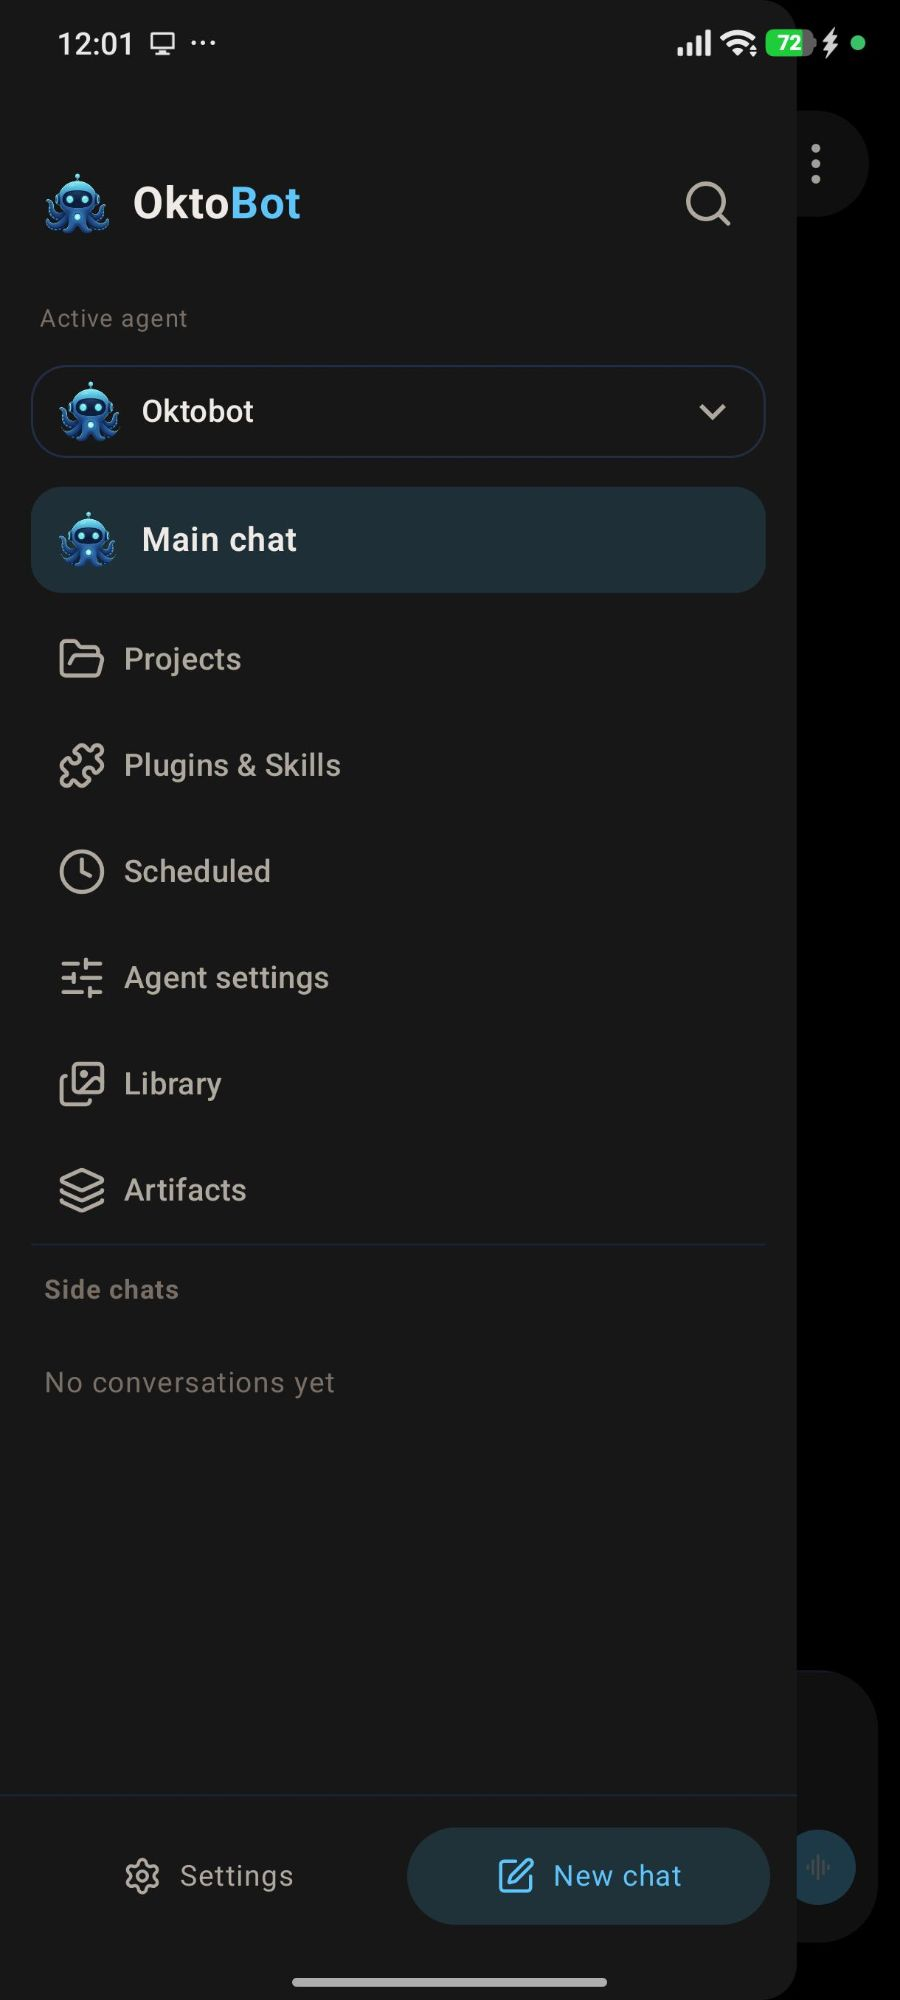
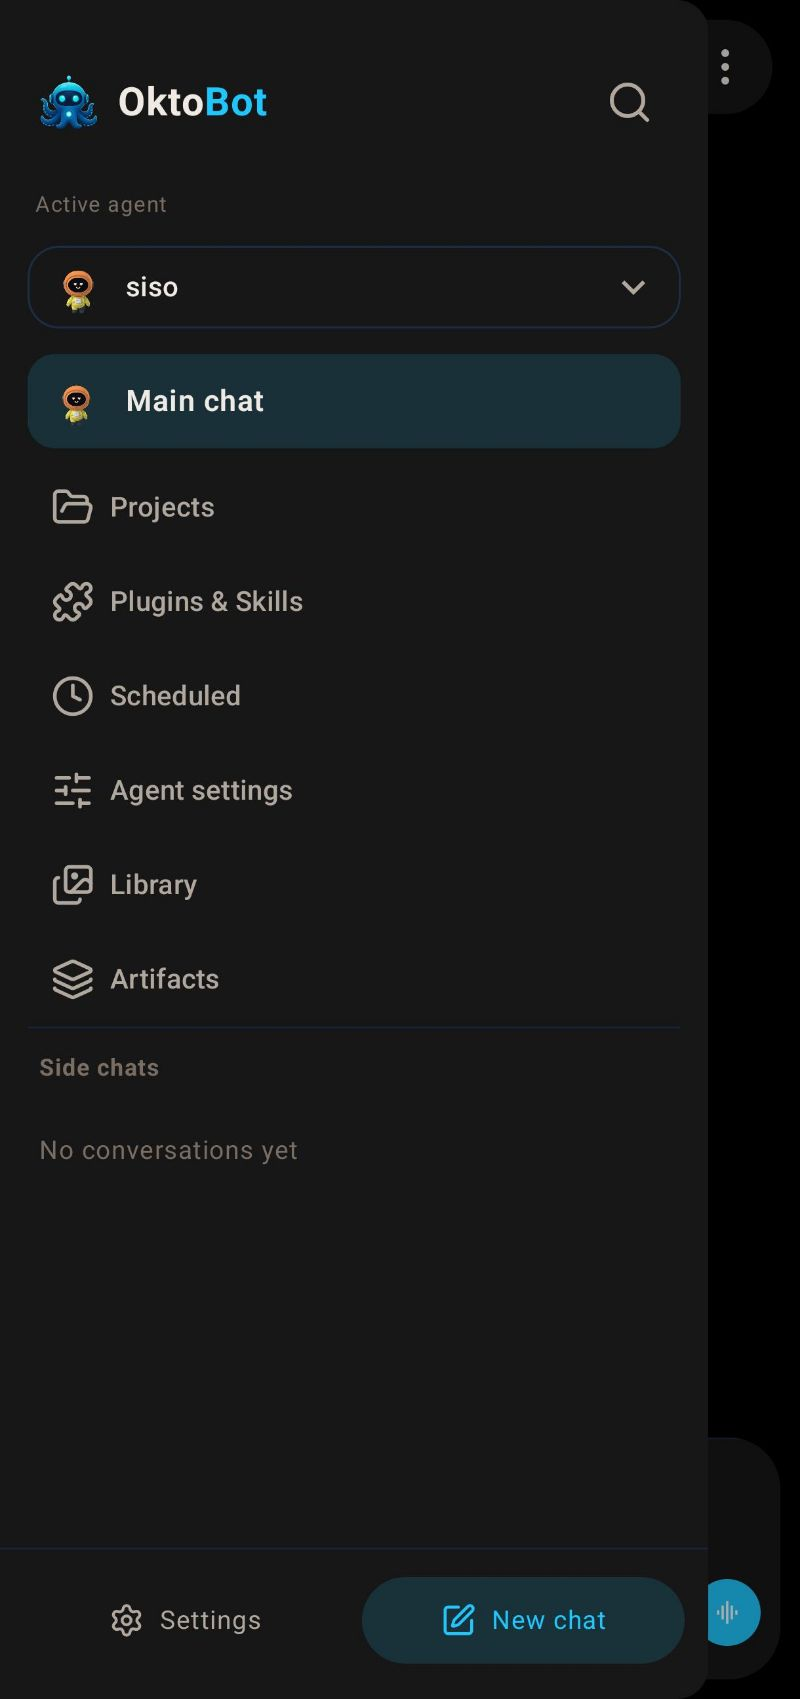
Play review walkthrough: OpenRouter free model flow

diff --git a/play-review/README.md b/play-review/README.md
@@ -1,17 +1,17 @@
-# Oktobot – how to test the AI features (for Google Play review)
+# Oktobot – how to test the AI features (Google Play review)
 
-No account or login is needed. To chat you need a model. Use the test Gemini API key given in the Play Console "Sign in details".
+No account or login is needed. Oktobot needs one AI model to chat. Use the free OpenRouter test key given in the Play Console "Sign in details". It is a free-tier key with no credit, so it cannot incur charges.
+
+IMPORTANT: choose the model `openrouter/free` (it always works). Do not pick other models.
 
 1. Open the menu (top-left) – ![](01-open-menu.jpg)
 2. Settings – ![](02-settings.jpg)
-3. Model – ![](03-model.jpg)
-4. LLM Config > Add provider – ![](04-llm-config-add-provider.jpg)
-5. Choose Gemini – ![](05-choose-gemini.jpg)
-6. Paste the API key – ![](06-paste-key.jpg)
-7. Test connection (shows "Connection successful"), then Save – ![](07-test-connection.jpg)
-8. Gemini shows Connected – ![](08-gemini-connected.jpg)
-9. IMPORTANT: choose the model `gemini-flash-lite-latest` (search "flash-lite") – ![](09-search-flash-lite.jpg)
-10. Selected – ![](10-select-flash-lite-latest.jpg)
-11. Go back to the chat and send a message – ![](11-chat-works.jpg)
+3. Model > LLM Config > "Add provider" (the Services screen) – ![](03-settings-model-llm-config.jpg)
+4. Choose OpenRouter (scroll the list) – ![](04-choose-openrouter.jpg)
+5. Paste the API key – ![](05-paste-key.jpg)
+6. Tap "Test connection" (shows "Connection successful"), then Save – ![](06-test-connection.jpg)
+7. OpenRouter shows "Connected" – ![](07-connected.jpg)
+8. Open the OpenRouter card, search "openrouter/free" and tap the circle. A banner says it is the selected model – ![](08-select-openrouter-free.jpg)
+9. Go back to the chat and send a message – ![](09-chat-replies.jpg)
 
-Alternative without any key: Settings > Model > LLM Config > Local tab, download an on-device model.
+Alternative without any key: Settings > Model > LLM Config > Local tab > download an on-device model.
